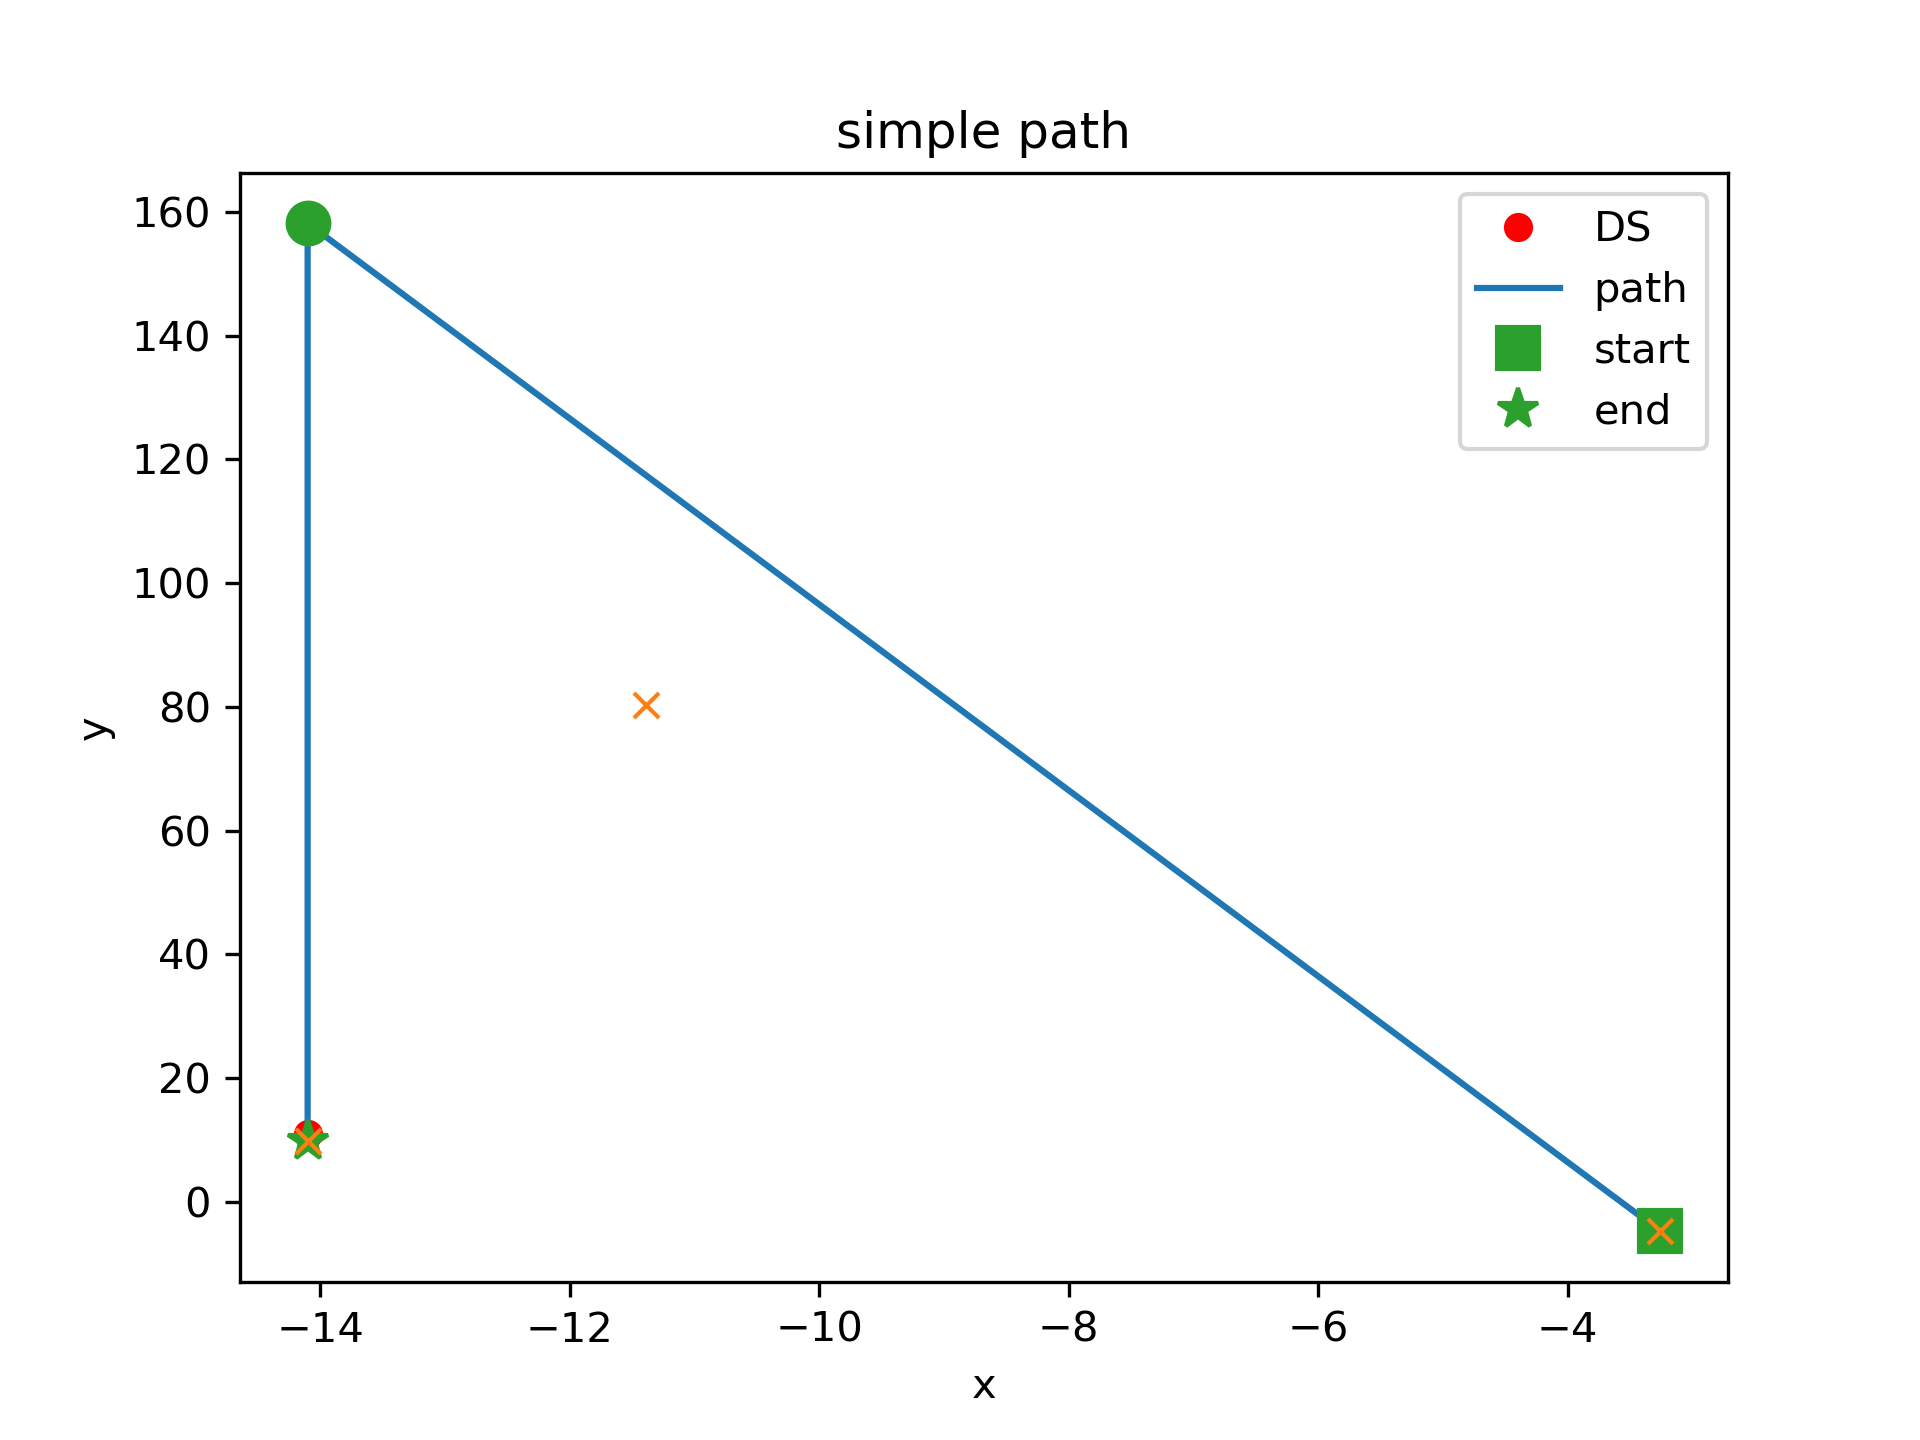
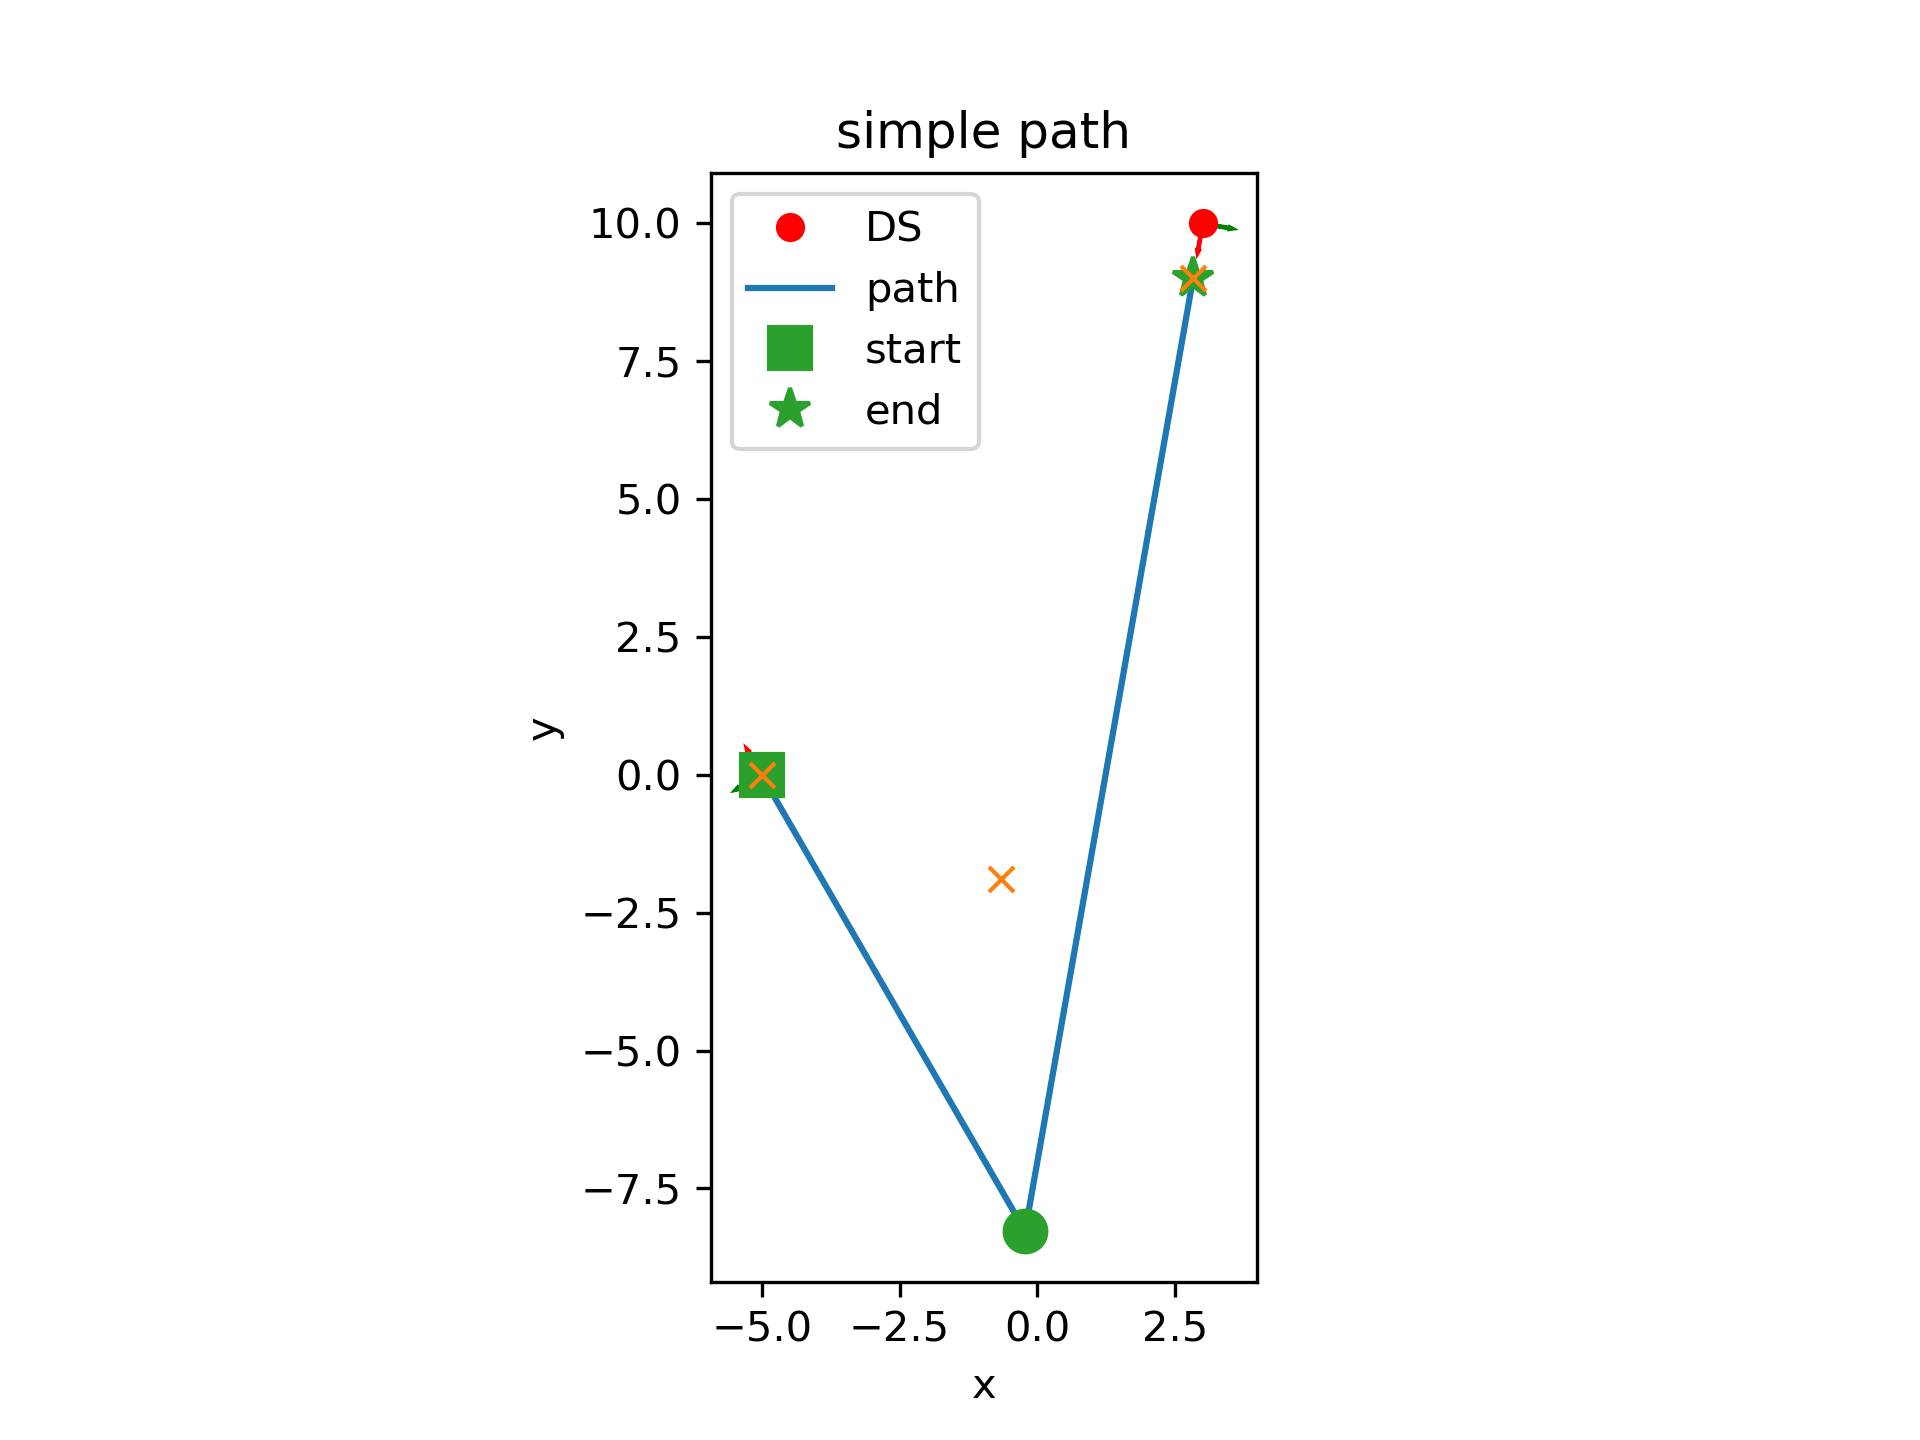
Update Simple Path Planner
Simple Bezier curve-based path planner for visual docking

diff --git a/src/simplePathPlanner.py b/src/simplePathPlanner.py
@@ -27,6 +27,7 @@ class SimplePathPlanner(object):
         # Init
         self.start = np.array([0., 0., np.deg2rad(0)])
         self.goal = np.array([0., 0., np.deg2rad(90)])
+        self.receivedGoal = False
 
         self.eps = 1.
         
@@ -63,24 +64,27 @@ class SimplePathPlanner(object):
 
         # Run
         while not rospy.is_shutdown():
-            # 1. Check if you need to calculate a plan
-            planNeeded = self.requirePlan()
-            # 1.1 Yes: Calculate Plan
-            if planNeeded:
-                print("Planning")
-                self.calculatePathSegments()
-                self.calculateBezierCurve()
-                self.calculatedPath = True
+            if self.receivedGoal:
+                # 1. Check if you need to calculate a plan
+                planNeeded = self.requirePlan()
+                # 1.1 Yes: Calculate Plan
+                if planNeeded:
+                    print("Planning")
+                    self.calculatePathSegments()
+                    self.calculateBezierCurve()
+                    self.calculatedPath = True
 
-                # Plot Path -> saves to file
-                self.plotPath()
-            # 1.2 No: continue
+                    # Plot Path -> saves to file
+                    self.plotPath()
+                # 1.2 No: continue
 
-            # 2. Get current waypoint
-            self.getCurrentWaypoint()
+                # 2. Get current waypoint
+                self.getCurrentWaypoint()
 
-            # 3. Publish current waypoint
-            self.publishCurrentWaypoint()
+                # 3. Publish current waypoint
+                self.publishCurrentWaypoint()
+            else:
+                print("No goal available")
 
             # 4. Sleep
             rate.sleep()
@@ -92,6 +96,7 @@ class SimplePathPlanner(object):
         self.goal[0] = DSPose[0]
         self.goal[1] = DSPose[1]
         self.goal[2] = DSPose[5]
+        self.receivedGoal = True
 
 
     def stateEstimateCallback(self,estim):
@@ -99,6 +104,7 @@ class SimplePathPlanner(object):
         self.start[0] = SAMPose[0]
         self.start[1] = SAMPose[1]
         self.start[2] = SAMPose[5]
+        # print("SAM Pose: x = {}, y = {}, theta = {}".format(*self.start))
 
     def getEulerFromQuaternion(self, pose):
         # Pose is in ENU. The callback extracts the position and Euler angles.
@@ -132,28 +138,59 @@ class SimplePathPlanner(object):
         #           -> give some good lee-way, otherwise there might be a lot of jumping...
         #       - TODO: Too far from current waypoint (How to measure?)
         if not self.calculatedPath:
+            print("No plan yet")
             return True
         
         xDiff = self.goal[0] - self.path["x"][-1]
         yDiff = self.goal[1] - self.path["y"][-1]
         distanceCurrentGoalDSEstimate = np.linalg.norm([xDiff, yDiff])
+        # print("xDiff: {}, yDiff: {}, distance: {}".format(xDiff, yDiff, distanceCurrentGoalDSEstimate))
                 
-        if distanceCurrentGoalDSEstimate > 1.:
-            # print("Distance Goal to DS: {}".format(distanceCurrentGoalDSEstimate))
-            # print("xDiff: {}, xDS Estimate: {}, xGoal: {}".format(xDiff, self.goal[0], self.path["x"][-1]))
-            # print("yDiff: {}, yDS Estimate: {}, yGoal: {}".format(yDiff, self.goal[1], self.path["y"][-1]))
+        if distanceCurrentGoalDSEstimate > 2.:
+            print("Goal moved")
             return True
         
         return False
 
 
     def calculatePathSegments(self):
-        self.controlPoints["x"]= np.array([self.start[0], self.goal[0], self.goal[0]])
-        self.controlPoints["y"] = np.array([self.start[1], self.start[1], self.goal[1] - 1])
+        # Calculate Bezier Control Point (second array entry)
+        # Combining laws of sin and cosine to caluclate the desired waypoint
+        # TODO: consider the angles. Now SAM is left of the docking station, does it work when he's right of it, too?
 
-        yCalc = self.start[1] + (self.goal[0] - self.start[0]) * np.tan(self.start[2])
+        xAxisDS, yAxisDS = self.calculateOrientationAxes(self.goal[2], 1)
+        target = np.array([self.goal[0] + xAxisDS[0], self.goal[1] + xAxisDS[1]])
 
-        self.controlPoints["y"][1] = yCalc
+        phiSAM = abs(self.start[2])
+        phiDS = abs(self.goal[2])
+        xDiff = target[0] - self.start[0]
+        yDiff = target[1] - self.start[1]
+        distanceSAMDS = np.linalg.norm([xDiff,yDiff])
+
+        phiB = np.arccos(xDiff/distanceSAMDS) - phiSAM
+        phiA = np.pi - phiB - phiSAM - phiDS
+        phiC = np.pi - phiB - phiA
+
+        print("phiSAM: {}, phiB: {}".format(self.start[2], phiB))
+
+        a = distanceSAMDS * (np.sin(phiA)/np.sin(phiC))
+
+        xCalc = a * np.cos(phiSAM)
+        yCalc = a * np.sin(phiSAM)
+
+
+
+        self.controlPoints["x"]= np.array([self.start[0], 
+                                           self.start[0] + xCalc, 
+                                           target[0]])
+        self.controlPoints["y"] = np.array([self.start[1], 
+                                            self.start[1] + yCalc, 
+                                            target[1]])
+
+        # For rectangular triangles
+        # yCalc = self.start[1] + (self.goal[0] - self.start[0]) * np.tan(self.start[2])
+
+        # self.controlPoints["y"][1] = yCalc
 
 
     def calculateBezierCurve(self):
@@ -206,13 +243,29 @@ class SimplePathPlanner(object):
 
     def plotPath(self):
         fig, ax = plt.subplots()
+        plt.gca().set_aspect('equal')
+        # plt.xlim(-5,5)
 
+        # Path Planning
         ax.plot(self.goal[0], self.goal[1], 'o', color='red', label='DS')
         ax.plot(self.controlPoints["x"], self.controlPoints["y"], label='path')
         ax.plot(self.controlPoints["x"][0] ,self.controlPoints["y"][0], 's', color='C2', markersize=10, label='start')
         ax.plot(self.controlPoints["x"][1] ,self.controlPoints["y"][1], 'o', color='C2', markersize=10)
         ax.plot(self.controlPoints["x"][-1] ,self.controlPoints["y"][-1], '*', color='C2', markersize=10, label='end')
         ax.plot(self.path["x"], self.path["y"], 'x')
+
+
+        # Coordinate visualization
+        originDS = [self.goal[0], self.goal[1]]
+        xAxisDS, yAxisDS = self.calculateOrientationAxes(self.goal[2], 0.5)
+        
+        originSAM = [self.start[0], self.start[1]]
+        xAxisSAM, yAxisSAM = self.calculateOrientationAxes(self.start[2], 0.5)
+
+        plt.arrow(*originDS, *xAxisDS, width=0.01, color='r')
+        plt.arrow(*originDS, *yAxisDS, width=0.01, color='g')
+        plt.arrow(*originSAM, *xAxisSAM, width=0.01, color='r')
+        plt.arrow(*originSAM, *yAxisSAM, width=0.01, color='g')
 
         ax.set_xlabel('x')
         ax.set_ylabel('y')
@@ -221,6 +274,21 @@ class SimplePathPlanner(object):
 
         home_dir = os.path.expanduser('~')  
         plt.savefig(home_dir + '/catkin_ws/src/visual_feedback/fig/bezierPath.png', dpi=300)
+
+
+    def calculateOrientationAxes(self, theta, axisLen):
+        xAxisDS = [axisLen, 0]
+        yAxisDS = [0, axisLen]
+        rotation = np.array([
+            [np.cos(theta), -np.sin(theta)],
+            [np.sin(theta), np.cos(theta)]
+            ])
+        
+        xAxisDSPrime = rotation.dot(xAxisDS)
+        yAxisDSPrime = rotation.dot(yAxisDS)
+
+        return xAxisDSPrime, yAxisDSPrime
+    
     #endregion
 
 if __name__ == "__main__":
